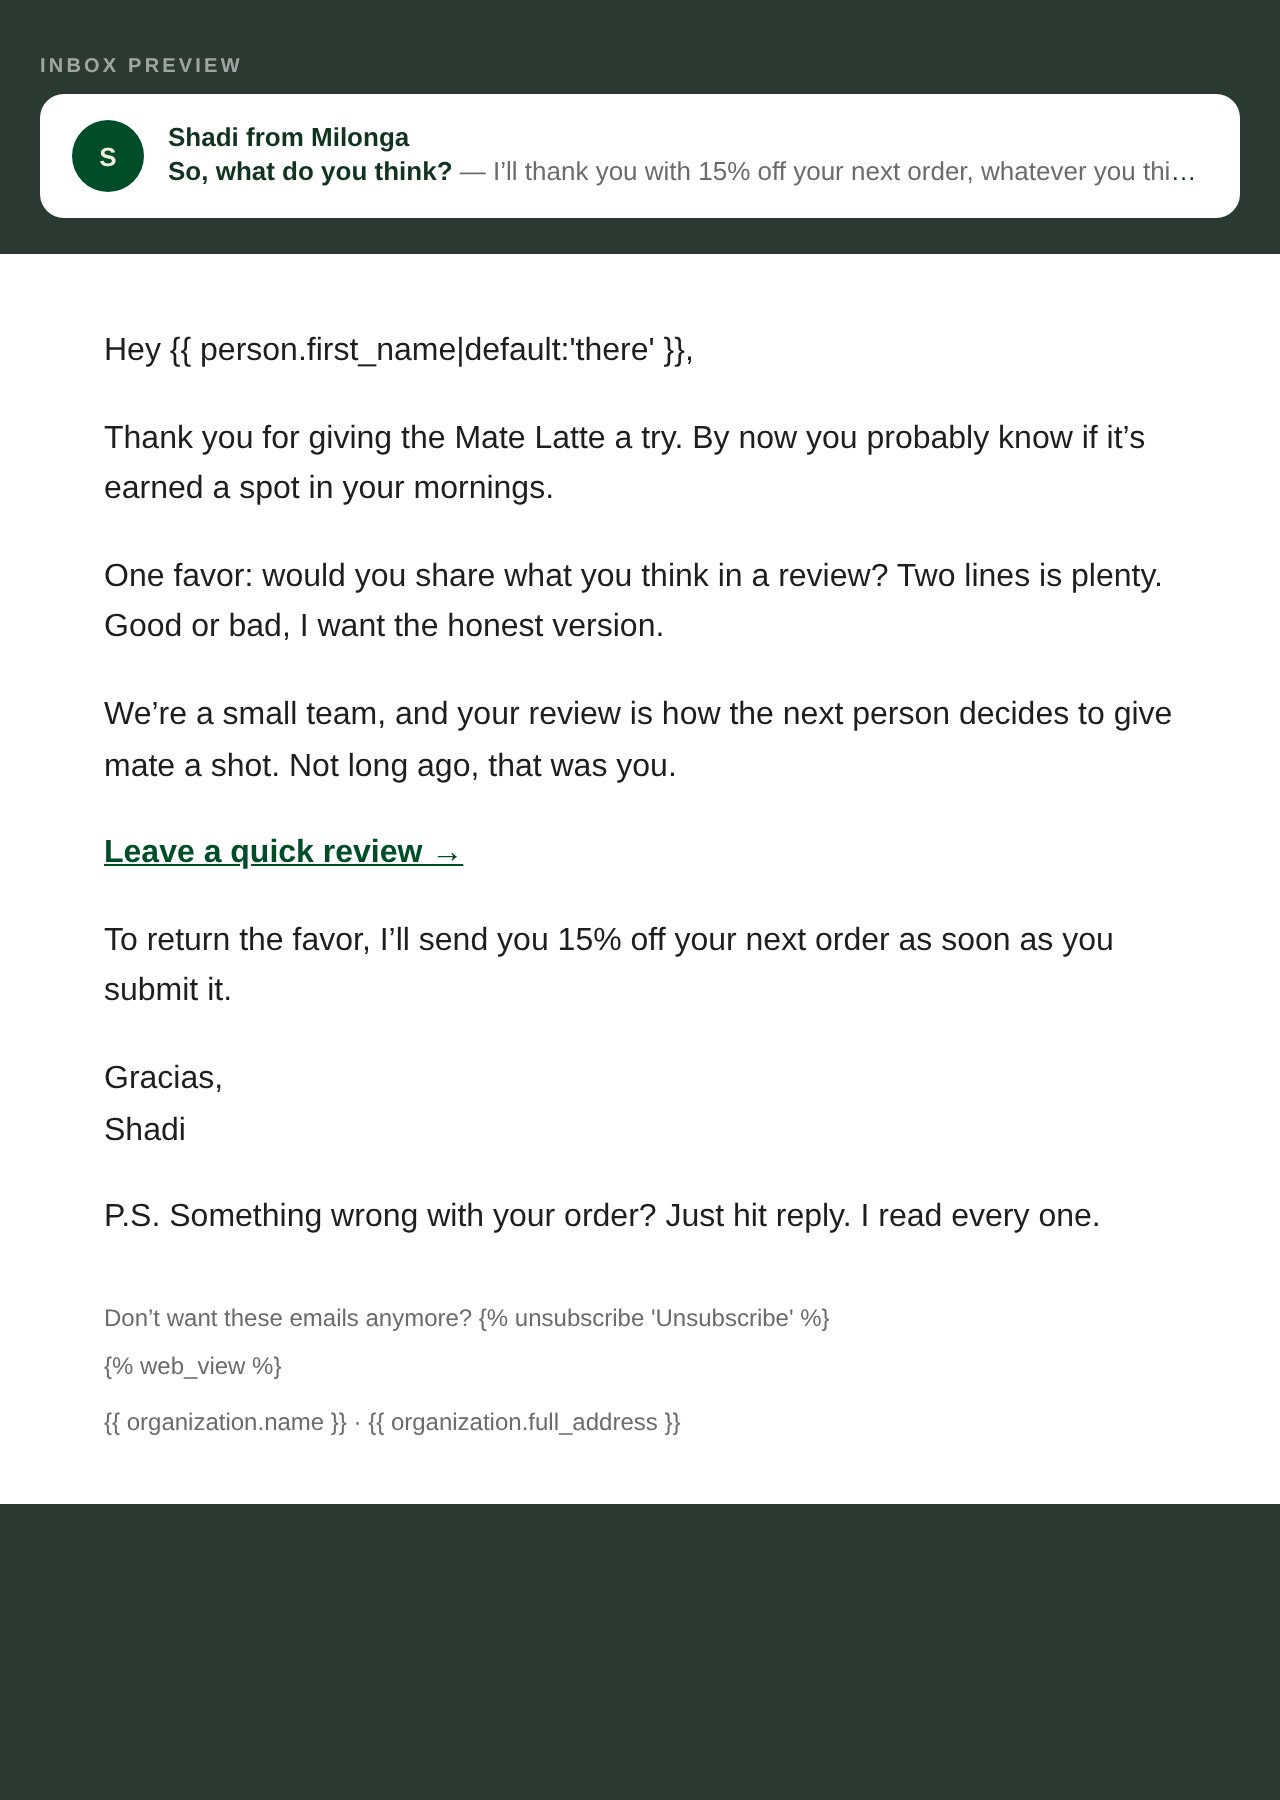
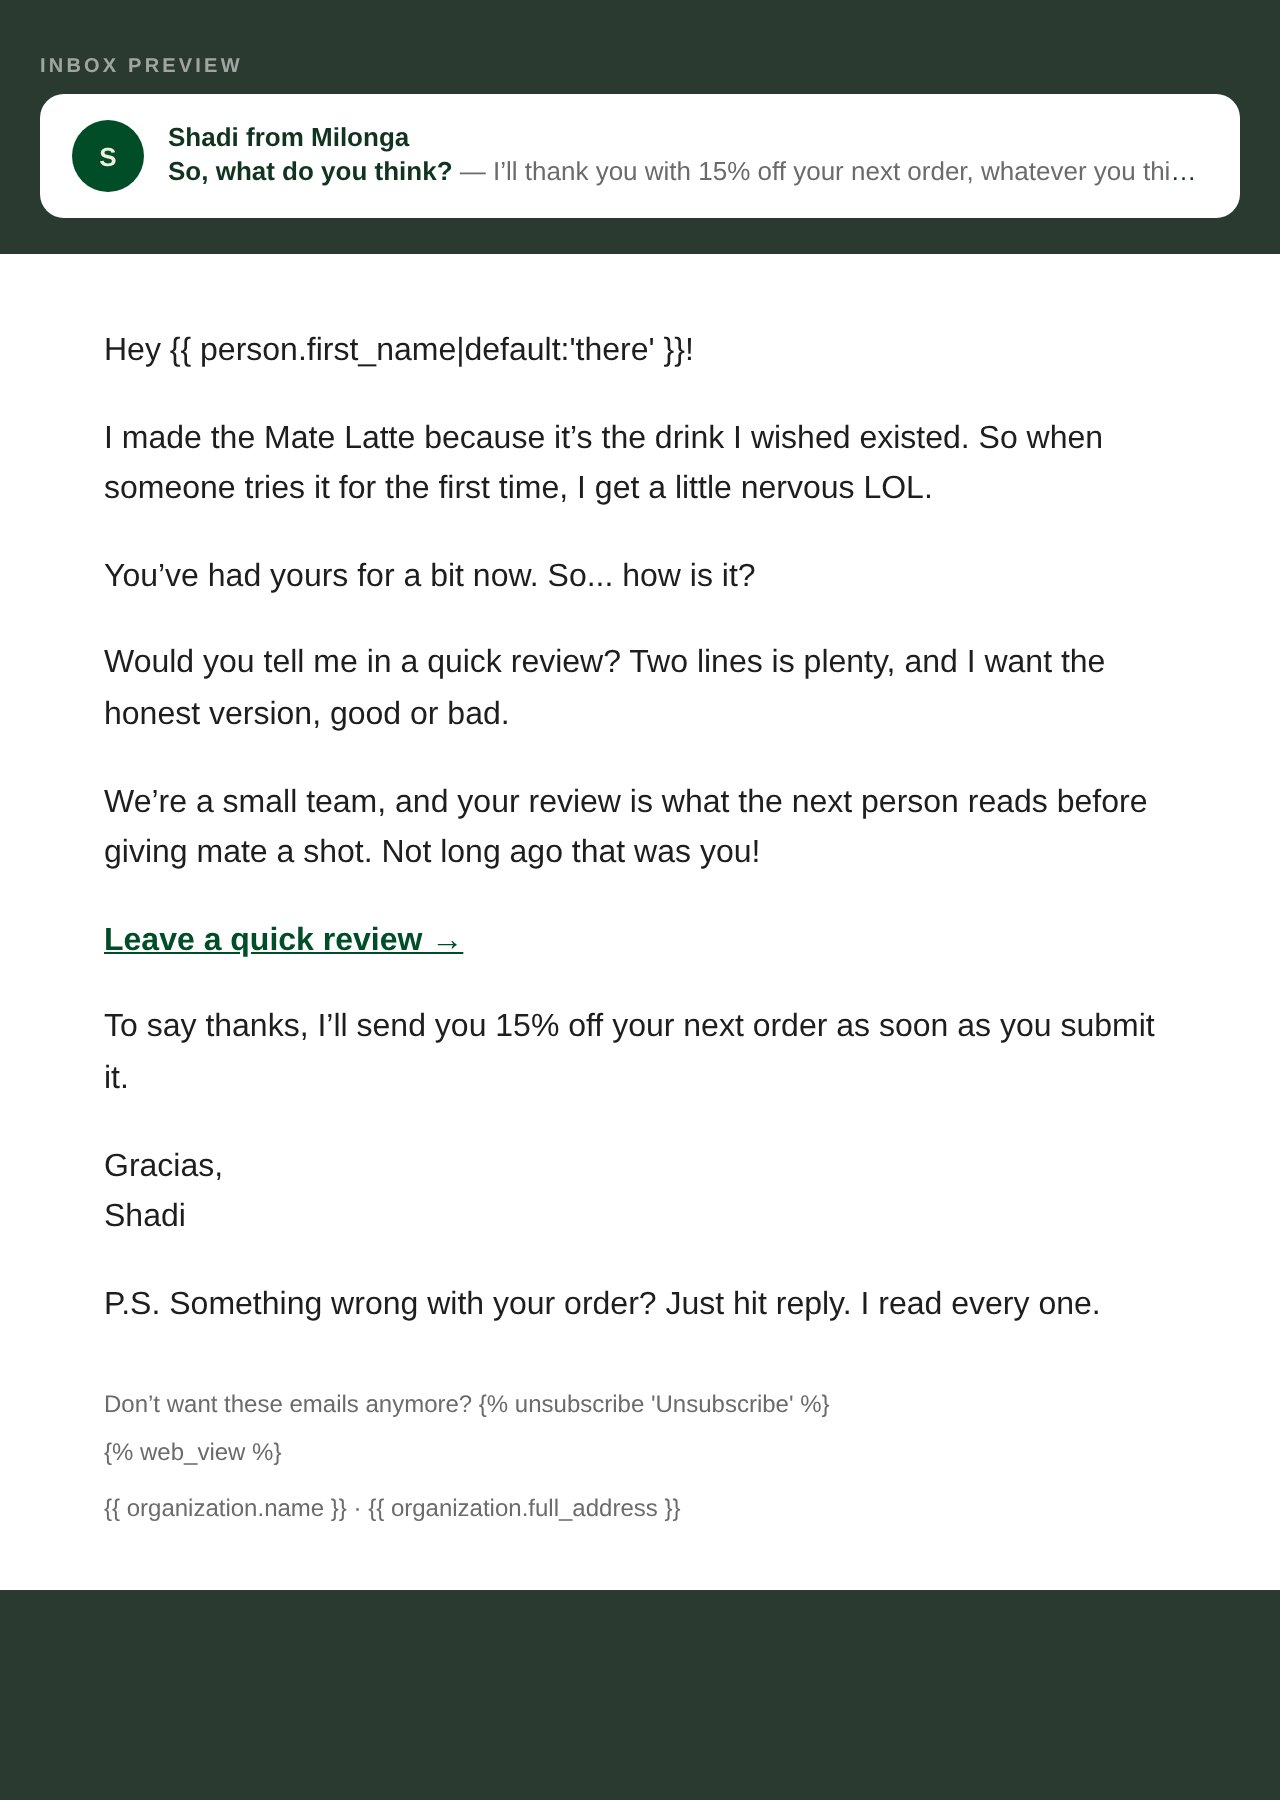
Review request, first-time buyers E1: written the way Shadi talks
Opens with something about the writer, one thought per paragraph, spoken
phrasing, a no-pressure ask (after Corbin from BREZ's plain-text emails).
The phrases are Shadi's own from the live letters. Link, reward wording,
P.S. and footer unchanged.

Claude-Session: https://claude.ai/code/session_0165XRX6qdjN6jQ924HLbrcX

diff --git a/email-ds/exports/klaviyo/review-first-e1/review-first-e1.html b/email-ds/exports/klaviyo/review-first-e1/review-first-e1.html
@@ -23,12 +23,13 @@
 <table role="presentation" class="wrap" width="600" cellpadding="0" cellspacing="0" border="0" style="width:600px;max-width:600px;">
 <tr><td class="pad" align="left" style="padding:36px 32px 28px;font-family:Helvetica, Arial, sans-serif;font-size:16px;line-height:1.6;color:#1E1E1E;">
 
-<p style="margin:0 0 18px;">Hey {{ person.first_name|default:'there' }},</p>
-<p style="margin:0 0 18px;">Thank you for giving the Mate Latte a try. By now you probably know if it&rsquo;s earned a spot in your mornings.</p>
-<p style="margin:0 0 18px;">One favor: would you share what you think in a review? Two lines is plenty. Good or bad, I want the honest version.</p>
-<p style="margin:0 0 18px;">We&rsquo;re a small team, and your review is how the next person decides to give mate a shot. Not long ago, that was you.</p>
+<p style="margin:0 0 18px;">Hey {{ person.first_name|default:'there' }}!</p>
+<p style="margin:0 0 18px;">I made the Mate Latte because it&rsquo;s the drink I wished existed. So when someone tries it for the first time, I get a little nervous LOL.</p>
+<p style="margin:0 0 18px;">You&rsquo;ve had yours for a bit now. So... how is it?</p>
+<p style="margin:0 0 18px;">Would you tell me in a quick review? Two lines is plenty, and I want the honest version, good or bad.</p>
+<p style="margin:0 0 18px;">We&rsquo;re a small team, and your review is what the next person reads before giving mate a shot. Not long ago that was you!</p>
 <p style="margin:0 0 18px;"><a href="https://milonga.life/products/the-original-mate-latte?judgeme_review_source=shareable-link#judgeme_product_reviews" target="_blank" style="color:#004D27;font-weight:bold;text-decoration:underline;">Leave a quick review &rarr;</a></p>
-<p style="margin:0 0 18px;">To return the favor, I&rsquo;ll send you 15% off your next order as soon as you submit it.</p>
+<p style="margin:0 0 18px;">To say thanks, I&rsquo;ll send you 15% off your next order as soon as you submit it.</p>
 <p style="margin:0 0 18px;">Gracias,<br>Shadi</p>
 <p style="margin:6px 0 0;">P.S. Something wrong with your order? Just hit reply. I read every one.</p>
 

diff --git a/email-ds/refine/review-first-e1.html b/email-ds/refine/review-first-e1.html
@@ -7,12 +7,13 @@
 <table role="presentation" class="wrap" width="600" cellpadding="0" cellspacing="0" border="0" style="width:600px;max-width:600px;">
 <tr><td class="pad" align="left" style="padding:36px 32px 28px;font-family:Helvetica, Arial, sans-serif;font-size:16px;line-height:1.6;color:#1E1E1E;">
 
-<p style="margin:0 0 18px;">Hey {{ person.first_name|default:'there' }},</p>
-<p style="margin:0 0 18px;">Thank you for giving the Mate Latte a try. By now you probably know if it&rsquo;s earned a spot in your mornings.</p>
-<p style="margin:0 0 18px;">One favor: would you share what you think in a review? Two lines is plenty. Good or bad, I want the honest version.</p>
-<p style="margin:0 0 18px;">We&rsquo;re a small team, and your review is how the next person decides to give mate a shot. Not long ago, that was you.</p>
+<p style="margin:0 0 18px;">Hey {{ person.first_name|default:'there' }}!</p>
+<p style="margin:0 0 18px;">I made the Mate Latte because it&rsquo;s the drink I wished existed. So when someone tries it for the first time, I get a little nervous LOL.</p>
+<p style="margin:0 0 18px;">You&rsquo;ve had yours for a bit now. So... how is it?</p>
+<p style="margin:0 0 18px;">Would you tell me in a quick review? Two lines is plenty, and I want the honest version, good or bad.</p>
+<p style="margin:0 0 18px;">We&rsquo;re a small team, and your review is what the next person reads before giving mate a shot. Not long ago that was you!</p>
 <p style="margin:0 0 18px;"><a href="https://milonga.life/products/the-original-mate-latte?judgeme_review_source=shareable-link#judgeme_product_reviews" target="_blank" style="color:#004D27;font-weight:bold;text-decoration:underline;">Leave a quick review &rarr;</a></p>
-<p style="margin:0 0 18px;">To return the favor, I&rsquo;ll send you 15% off your next order as soon as you submit it.</p>
+<p style="margin:0 0 18px;">To say thanks, I&rsquo;ll send you 15% off your next order as soon as you submit it.</p>
 <p style="margin:0 0 18px;">Gracias,<br>Shadi</p>
 <p style="margin:6px 0 0;">P.S. Something wrong with your order? Just hit reply. I read every one.</p>
 
